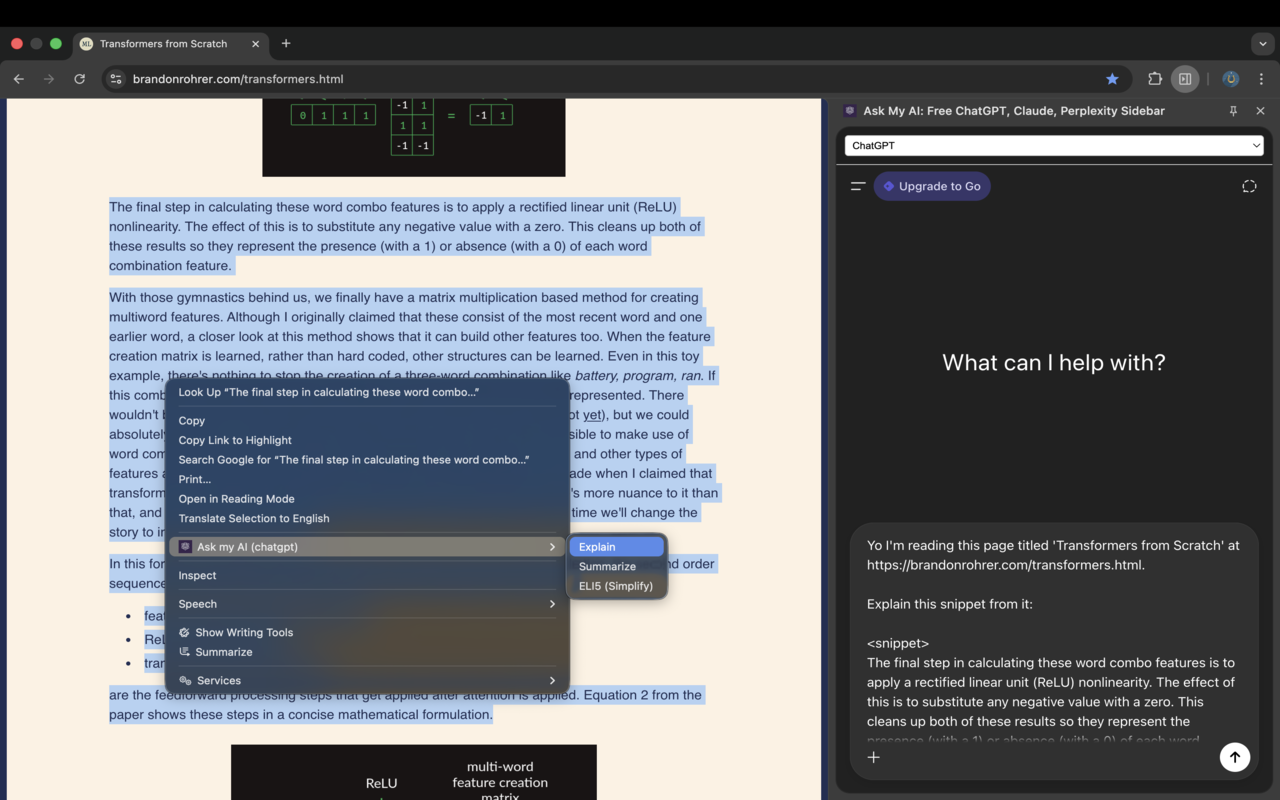
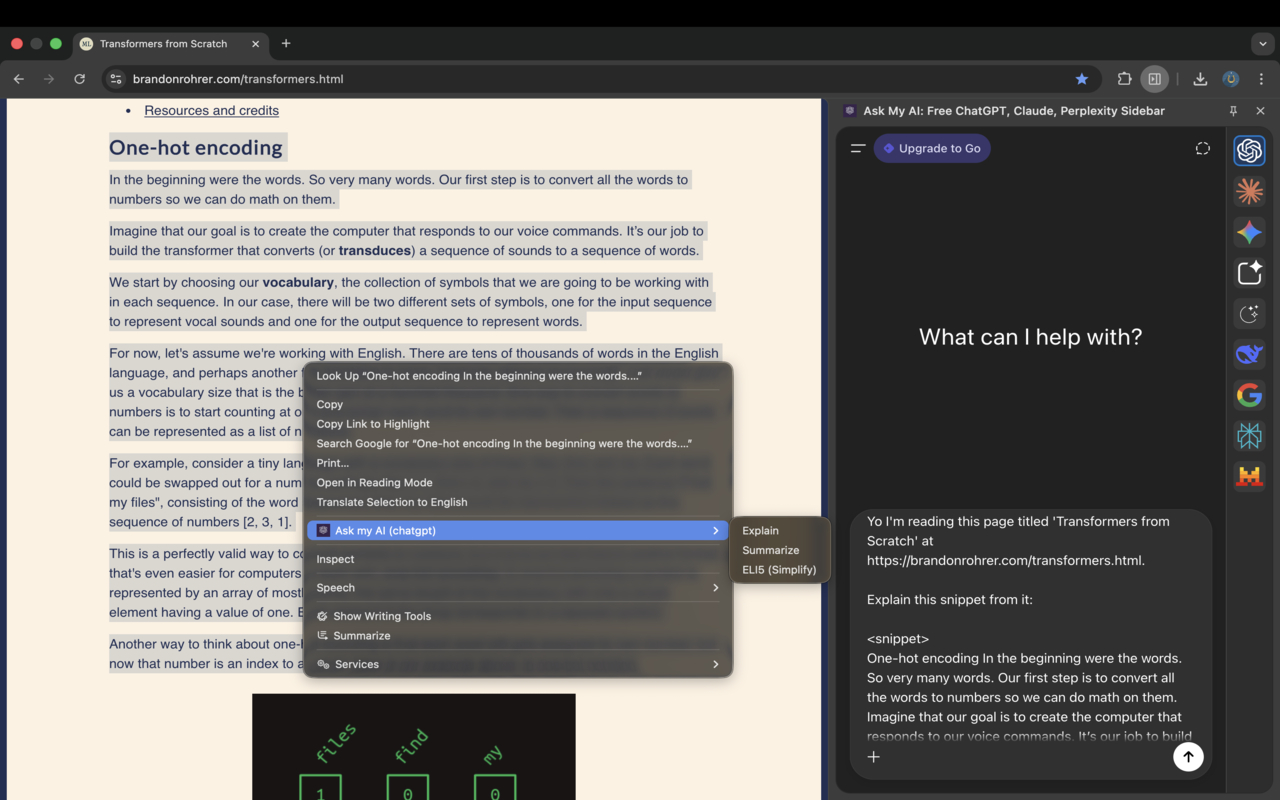
ss & README

diff --git a/README.md b/README.md
@@ -24,7 +24,11 @@ Perfect for quickly understanding complex concepts, code snippets, technical ter
 
 ## Installation
 
-### Option 1: Load as Unpacked Extension (Developer Mode)
+### Option 1: From Chrome Web Store
+
+[Add to Chrome](https://chromewebstore.google.com/detail/ask-my-ai/clfbemdacihopdopaanknckjkgbpando) from Chrome Web Store.
+
+### Option 2: Load as Unpacked Extension (Developer Mode)
 
 1. **Download or clone** this repository to your computer
 2. **Install dependencies** - Run `pnpm install` in the project directory
@@ -36,10 +40,6 @@ Perfect for quickly understanding complex concepts, code snippets, technical ter
 8. **Done!** The extension is now installed
 
 > **Note:** After making code changes, run `pnpm build` again and click the refresh icon on the extension card in `chrome://extensions/`
-
-### Option 2: From Chrome Web Store
-
-_Coming soon - extension will be published to Chrome Web Store_
 
 ## How to Use
 
@@ -62,3 +62,14 @@ _Coming soon - extension will be published to Chrome Web Store_
 ## Settings
 
 Click the extension icon in your toolbar to choose your preferred AI platform.
+
+### Icons from
+
+https://lobehub.com/icons
+
+### Convert
+
+```
+cd images
+magick ss.png -resize 1280x800! -quality 100 ss-resized.jpg
+```
